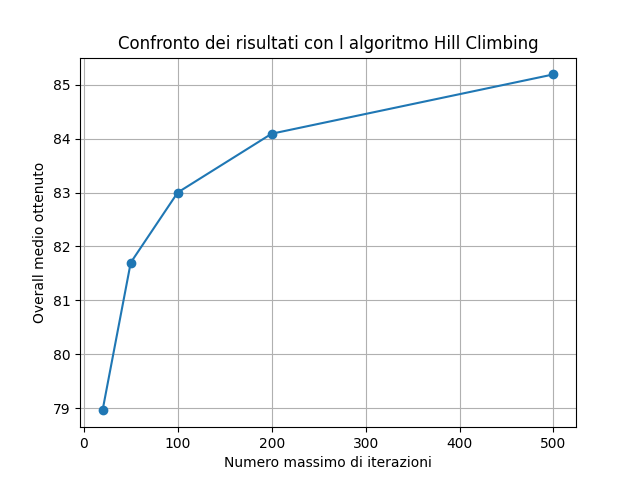
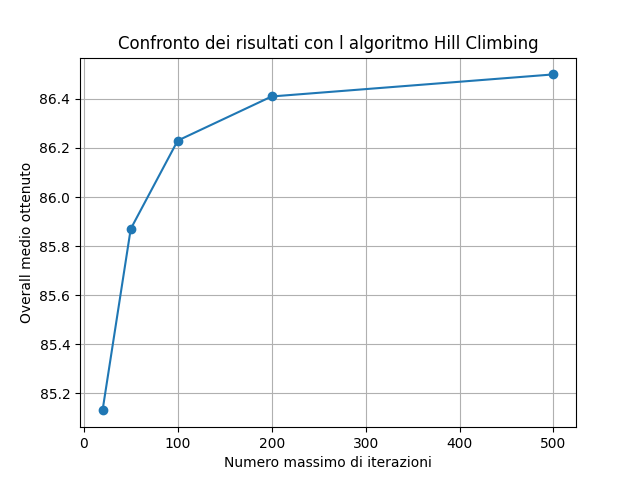
Completato main e fixato MIS

diff --git a/CSP/most_improving_step.py b/CSP/most_improving_step.py
@@ -10,6 +10,40 @@ def stampa(formazione):
     q,w = punteggi(formazione)
     print("Costo: ", q, " - overall: ", w)
 
+def test_mis(modulo, lista_calciatori, budget, numero_test):
+    lista_max_iterazioni = [20, 50, 100, 200, 500] # Lista max iterazioni da testare
+    risultati = [] # Risultati ottenuti per ogni valore di max iterazioni
+
+    # Test per ogni valore di max iterazioni
+    for m in lista_max_iterazioni:
+
+        # Risultati dei singoli test sul valore max iterazioni
+        somma = 0
+
+        # Effettuazione del singolo test
+        for _ in range(numero_test):
+            formazione = most_improving_step(modulo, lista_calciatori, budget, m)
+            _, overall = punteggi(formazione)
+            somma = somma + overall
+
+        # Inserimento del risultato ottenuto con il valore di max iterazioni
+        media = round(somma / numero_test, 2)
+        risultati.append(media)
+
+    grafico(risultati, lista_max_iterazioni)
+
+
+def risultati_mis(modulo, lista_calciatori, budget, numero_test):
+    max_iterazioni = 500
+    risultati = []
+    # Effettuazione del singolo test
+    for _ in range(numero_test):
+        formazione = most_improving_step(modulo, lista_calciatori, budget, max_iterazioni)
+        _, overall = punteggi(formazione)
+        risultati.append(overall)
+    return risultati
+
+
 # Funzione di valutazione
 def valutazione(c1, c2, o1, o2, oc1, oc2, budget):
     return ((c2 < budget) and (o1 < o2) or ((c2 < c1) and (oc1 <= oc2 * TASSO_PEGGIORAMENTO)))
@@ -19,8 +53,6 @@ def most_improving_step(modulo, lista_calciatori, budget, max_iterazioni):
     # Random restart
     formazione = random_restart(modulo, lista_calciatori, budget)
     iterazioni = 0
-
-    stampa(formazione)
     
     # Walk
     while iterazioni < max_iterazioni:
@@ -31,38 +63,44 @@ def most_improving_step(modulo, lista_calciatori, budget, max_iterazioni):
         # Creazione di 11 possibili sostituzioni
         formazione2 = random_restart(modulo, lista_calciatori, budget)
 
-        migliorato = False
+        posizione_migliore = None
+        calciatore_migliore = None
 
         # Ricerca della migliore mossa
         for i, c in enumerate(formazione2):            
             
-            # Effettuazione della singola sostituzione sulla formazione iniziale
-            formazione_temp = formazione.copy()
-            formazione_temp[i] = formazione2[i]
+            # Controllo che il giocatore non sia già presente nella formazione iniziale
+            if c not in formazione:
+                # Effettuazione della singola sostituzione sulla formazione iniziale
+                formazione_temp = formazione.copy()
+                formazione_temp[i] = formazione2[i]
 
-            # Calcolo dei punteggi della nuova formazione
-            costo_nuovo, overall_nuovo = punteggi(formazione_temp)
+                # Calcolo dei punteggi della nuova formazione
+                costo_nuovo, overall_nuovo = punteggi(formazione_temp)
 
-            # Verifica se la formazione è migliore di quella attuale
-            if(valutazione(costo_migliore, costo_nuovo, overall_migliore, overall_nuovo, formazione[i][1], c[1], budget)):
-                posizione_migliore = i
-                calciatore_migliore = c
-                costo_migliore = costo_nuovo
-                overall_migliore = overall_nuovo
-                migliorato = True
+                # Verifica se la formazione è migliore di quella attuale
+                if(valutazione(costo_migliore, costo_nuovo, overall_migliore, overall_nuovo, formazione[i][1], c[1], budget)):
+                    posizione_migliore = i
+                    calciatore_migliore = c
+                    costo_migliore = costo_nuovo
+                    overall_migliore = overall_nuovo
+                    migliorato = True
                 
-        if(migliorato): 
+        # Effettuazione della sostituzione migliore
+        if posizione_migliore is not None: 
             formazione[posizione_migliore] = calciatore_migliore
+        
         iterazioni = iterazioni + 1
 
     return formazione
 
-modulo = ['Portiere', 'Difensore centrale', 'Difensore centrale', 'Difensore centrale', 'Esterno sinistro', 
-          'Centrocampista centrale', 'Mediano', 'Centrocampista centrale', 'Esterno destro', 'Prima punta', 'Prima punta']
-budget = 350
-lista_calciatori = preprocessing()
-
-formazione = most_improving_step(modulo, lista_calciatori, budget, 200)
-stampa(formazione)
+def grafico(risultati, lista):
+    plt.plot(lista, risultati, marker='o')
+    plt.xlabel('Numero massimo di iterazioni')
+    plt.ylabel('Overall medio ottenuto')
+    plt.title('Confronto dei risultati con l algoritmo Most Improving Step')
+    plt.grid(True)
+    plt.savefig("CSP/grafici/mis.png")
+    plt.show()
 
         

diff --git a/CSP/main_manager.py b/CSP/main_manager.py
@@ -1,0 +1,122 @@
+from hill_climbing import *
+from simulated_annealing import *
+from tabu_search import *
+from most_improving_step import *
+from preprocessing import preprocessing
+from input_manager import *
+import os
+from prettytable import PrettyTable
+from ricerca_locale import punteggi
+
+MAX_ITERAZIONI = 500
+TASSO_RAFFREDDAMENTO = 0.002
+
+def clearConsole():
+    command = "clear"
+    if os.name in ("nt", "dos"):  # If Machine is running on Windows, use cls
+        command = "cls"
+    os.system(command)
+
+def stampa(formazione):
+    tabella = PrettyTable(["Nome", "Overall", "Posizione", "Costo"])
+    for calciatore in formazione:
+        tabella.add_row(calciatore)
+    tabella.add_row(["", "", "", ""])
+    costo, overall = punteggi(formazione)
+    tabella.add_row(["TOTALE", overall, "", costo])
+    print(tabella)
+
+# Test degli algoritmi singolarmente
+def test_algoritmi():
+    modulo = ['Portiere', 'Terzino sinistro', 'Difensore centrale', 'Difensore centrale', 
+              'Terzino destro', 'Centrocampista centrale', 'Mediano', 'Centrocampista centrale', 
+              'Ala sinistra', 'Prima punta', 'Ala destra']
+    budget = 400
+    numero_test = 50
+
+    # Recupero lista dei calciatori
+    lista_calciatori = preprocessing()
+
+    clearConsole()
+    print("SCEGLIERE ALGORITMO\n")
+    print("1 = Hill Climbing")
+    print("2 = Tabu Search")
+    print("3 = Simulated Annealing")
+    print("4 = Most Improving Step")
+    while True:
+        scelta = int(input("Inserire scelta: "))
+        if(scelta >= 1 and scelta <= 4):
+            break
+        else:
+            print("Scelta non valida!")
+
+    if (scelta == 1):
+        test_hc(modulo, lista_calciatori, budget, numero_test)
+    elif (scelta == 2):
+        test_ts(modulo, lista_calciatori, budget, numero_test)
+    elif (scelta == 3):
+        test_sa(modulo, lista_calciatori, budget, numero_test)
+    elif (scelta == 4):
+        test_mis(modulo, lista_calciatori, budget, numero_test)
+
+
+
+
+# Confronto tra tutti gli algoritmi
+def confronto_algoritmi():
+    modulo = ['Portiere', 'Terzino sinistro', 'Difensore centrale', 'Difensore centrale', 
+              'Terzino destro', 'Centrocampista centrale', 'Mediano', 'Centrocampista centrale', 
+              'Ala sinistra', 'Prima punta', 'Ala destra']
+    budget = 400
+    numero_test = 50
+
+    # Recupero lista dei calciatori
+    lista_calciatori = preprocessing()
+
+    # Recupero vettore dei risultati da ogni algoritmo
+    ris_hc = risultati_hc(modulo, lista_calciatori, budget, numero_test)
+    ris_ts = risultati_ts(modulo, lista_calciatori, budget, numero_test)
+    ris_sa = risultati_sa(modulo, lista_calciatori, budget, numero_test)
+    ris_mis = risultati_mis(modulo, lista_calciatori, budget, numero_test)
+
+    # Creazione grafico confronto
+    plt.boxplot([ris_hc, ris_ts, ris_sa, ris_mis], 
+                labels=['HC', 'TS', 'SA', 'MIS'])
+    plt.ylabel('Valutazione')
+    plt.title('Confronto risultati degli algoritmo')
+    plt.savefig("CSP/grafici/confronto.png")
+    plt.show()
+
+
+
+def calcolo_singolo():
+    clearConsole()
+    print("SCEGLIERE ALGORITMO\n")
+    print("1 = Hill Climbing")
+    print("2 = Tabu Search")
+    print("3 = Simulated Annealing")
+    print("4 = Most Improving Step")
+    while True:
+        scelta = int(input("Inserire scelta: "))
+        if(scelta >= 1 and scelta <= 4):
+            break
+        else:
+            print("Scelta non valida!")
+    
+    clearConsole()
+    # Recupero lista dei calciatori
+    lista_calciatori = preprocessing()
+    # Input modulo e budget
+    modulo = input_modulo()
+    budget = input_budget()
+
+    if (scelta == 1):
+        formazione = hill_climbing(modulo, lista_calciatori, budget, MAX_ITERAZIONI)
+    elif (scelta == 2):
+        formazione = tabu_search(modulo, lista_calciatori, budget, MAX_ITERAZIONI)
+    elif (scelta == 3):
+        formazione = simulated_annealing(modulo, lista_calciatori, budget, TASSO_RAFFREDDAMENTO)
+    elif (scelta == 4):
+        formazione = most_improving_step(modulo, lista_calciatori, budget, MAX_ITERAZIONI)
+
+    stampa(formazione)

diff --git a/CSP/input_manager.py b/CSP/input_manager.py
@@ -8,13 +8,21 @@ def input_modulo():
         else:
             print("Modulo non valido!")
     if scelta == 433:
-        modulo = ['Portiere', 'Terzino sinistro', 'Difensore centrale', 'Difensore centrale', 'Terzino destro', 'Centrocampista centrale', 'Mediano', 'Centrocampista centrale', 'Ala sinistra', 'Prima punta', 'Ala destra']
+        modulo = ['Portiere', 'Terzino sinistro', 'Difensore centrale', 'Difensore centrale', 
+                  'Terzino destro', 'Centrocampista centrale', 'Mediano', 'Centrocampista centrale', 
+                  'Ala sinistra', 'Prima punta', 'Ala destra']
     elif scelta == 4231:
-        modulo = ['Portiere', 'Terzino sinistro', 'Difensore centrale', 'Difensore centrale', 'Terzino destro', 'Mediano', 'Mediano', 'Ala sinistra', 'Trequartista', 'Ala destra', 'Prima punta']
+        modulo = ['Portiere', 'Terzino sinistro', 'Difensore centrale', 'Difensore centrale', 
+                  'Terzino destro', 'Mediano', 'Mediano', 'Ala sinistra', 'Trequartista', 
+                  'Ala destra', 'Prima punta']
     elif scelta == 442:
-        modulo = ['Portiere', 'Terzino sinistro', 'Difensore centrale', 'Difensore centrale', 'Terzino destro', 'Esterno sinistro', 'Centrocampista centrale', 'Centrocampista centrale', 'Esterno destro', 'Prima punta', 'Prima punta']
+        modulo = ['Portiere', 'Terzino sinistro', 'Difensore centrale', 'Difensore centrale', 
+                  'Terzino destro', 'Esterno sinistro', 'Centrocampista centrale', 'Centrocampista centrale', 
+                  'Esterno destro', 'Prima punta', 'Prima punta']
     elif scelta == 352:
-        modulo = ['Portiere', 'Difensore centrale', 'Difensore centrale', 'Difensore centrale', 'Esterno sinistro', 'Centrocampista centrale', 'Mediano', 'Centrocampista centrale', 'Esterno destro', 'Prima punta', 'Prima punta']
+        modulo = ['Portiere', 'Difensore centrale', 'Difensore centrale', 'Difensore centrale', 
+                  'Esterno sinistro', 'Centrocampista centrale', 'Mediano', 'Centrocampista centrale', 
+                  'Esterno destro', 'Prima punta', 'Prima punta']
 
     return modulo
 

diff --git a/CSP/main.py b/CSP/main.py
@@ -1,22 +1,27 @@
-from hill_climbing import *
-from simulated_annealing import *
-from tabu_search import *
-from preprocessing import preprocessing
-from input_manager import *
+from main_manager import *
 
-NUMERO_TEST = 50
+while True:
+    clearConsole()
+    print("CALCOLO MIGLIORE FORMAZIONE CON BUDGET\n")
+    print("1 = Effettuare un singolo calcolo")
+    print("2 = Testare un algoritmo")
+    print("3 = Confrontare gli algoritmi")
 
-lista_calciatori = preprocessing()
+    while True:
+        scelta = int(input("Inserire scelta: "))
+        if(scelta >= 1 and scelta <= 3):
+            break
+        else:
+            print("Scelta non valida!")
 
-print("CALCOLO MIGLIORE FORMAZIONE\n")
+    if (scelta == 1):
+        calcolo_singolo()
+    elif (scelta == 2):
+        test_algoritmi()
+    elif (scelta == 3):
+        confronto_algoritmi()
 
-# Scelta del modulo e budget
-modulo = input_modulo()
-budget = input_budget()
+    uscita = int(input("Digitare 0 per ripetere: "))
 
-# Hill Climbing
-test_hc(modulo, lista_calciatori, budget, NUMERO_TEST)
-# Tabu Search
-test_ts(modulo, lista_calciatori, budget, NUMERO_TEST)
-# Simulated Annealing
-test_sa(modulo, lista_calciatori, budget, NUMERO_TEST)
+    if (uscita != 0):
+        break

diff --git a/CSP/hill_climbing.py b/CSP/hill_climbing.py
@@ -25,6 +25,16 @@ def test_hc(modulo, lista_calciatori, budget, numero_test):
 
     grafico(risultati, lista_max_iterazioni)
 
+def risultati_hc(modulo, lista_calciatori, budget, numero_test):
+    max_iterazioni = 500
+    risultati = []
+    # Effettuazione del singolo test
+    for _ in range(numero_test):
+        formazione = hill_climbing(modulo, lista_calciatori, budget, max_iterazioni)
+        _, overall = punteggi(formazione)
+        risultati.append(overall)
+    return risultati
+
 # Funzione di valutazione
 def valutazione(c1, c2, o1, o2, oc1, oc2, budget):
     return ((c2 < budget) and (o1 < o2) or ((c2 < c1) and (oc1 <= oc2 * TASSO_PEGGIORAMENTO)))
@@ -72,5 +82,5 @@ def grafico(risultati, lista):
     plt.ylabel('Overall medio ottenuto')
     plt.title('Confronto dei risultati con l algoritmo Hill Climbing')
     plt.grid(True)
-    #plt.savefig("CSP/grafici/hc.png")
+    plt.savefig("CSP/grafici/hc.png")
     plt.show()

diff --git a/CSP/tabu_search.py b/CSP/tabu_search.py
@@ -26,6 +26,16 @@ def test_ts(modulo, lista_calciatori, budget, numero_test):
 
     grafico(risultati, lista_max_iterazioni)
 
+def risultati_ts(modulo, lista_calciatori, budget, numero_test):
+    max_iterazioni = 500
+    risultati = []
+    # Effettuazione del singolo test
+    for _ in range(numero_test):
+        formazione = tabu_search(modulo, lista_calciatori, budget, max_iterazioni)
+        _, overall = punteggi(formazione)
+        risultati.append(overall)
+    return risultati
+
 # Funzione di valutazione
 def valutazione(c1, c2, o1, o2, oc1, oc2, budget):
     return ((c2 < budget) and (o1 < o2) or ((c2 < c1) and (oc1 <= oc2 * TASSO_PEGGIORAMENTO)))
@@ -80,5 +90,5 @@ def grafico(risultati, lista):
     plt.ylabel('Overall medio ottenuto')
     plt.title('Confronto dei risultati con l algoritmo Tabu Search')
     plt.grid(True)
-    #plt.savefig("CSP/grafici/ts.png")
+    plt.savefig("CSP/grafici/ts.png")
     plt.show()

diff --git a/CSP/simulated_annealing.py b/CSP/simulated_annealing.py
@@ -27,6 +27,16 @@ def test_sa(modulo, lista_calciatori, budget, numero_test):
 
     grafico(risultati, lista_tassi_raffreddamento)
 
+def risultati_sa(modulo, lista_calciatori, budget, numero_test):
+    tasso_raffreddamento = 0.002
+    risultati = []
+    # Effettuazione del singolo test
+    for _ in range(numero_test):
+        formazione = simulated_annealing(modulo, lista_calciatori, budget, tasso_raffreddamento)
+        _, overall = punteggi(formazione)
+        risultati.append(overall)
+    return risultati
+
 # Funzione di valutazione
 def valutazione(c1, c2, o1, o2, budget, temperatura):
 
@@ -81,5 +91,5 @@ def grafico(risultati, lista):
     plt.ylabel('Overall medio ottenuto')
     plt.title('Confronto dei risultati con l algoritmo Simulated Annealing')
     plt.grid(True)
-    #plt.savefig("CSP/grafici/sa.png")
+    plt.savefig("CSP/grafici/sa.png")
     plt.show()

diff --git a/CSP/preprocessing.py b/CSP/preprocessing.py
@@ -15,7 +15,7 @@ def creazione_dataset():
     # Colonne da mantenere
     colonne = ['Known As', 'Overall', 'Positions Played', 'Value(in Euro)']
     # Selezione delle colonne
-    ds = dataset[colonne]
+    ds = dataset[colonne].iloc[:500]
     # Conversione da euro in milioni di euro del valore
     ds.loc[:, 'Value(in Euro)'] = ds['Value(in Euro)'] / 1000000
     # Salvataggio dataset
@@ -25,7 +25,7 @@ def creazione_dataset():
 def preprocessing():
 
     # Creazione del dataset
-    #creazione_dataset()
+    creazione_dataset()
 
     # Caricamento del dataset
     dataset = pd.read_csv('dataset/dataset_CSP.csv')
